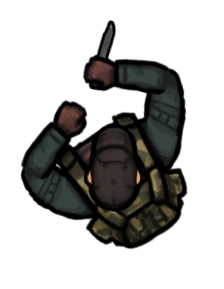
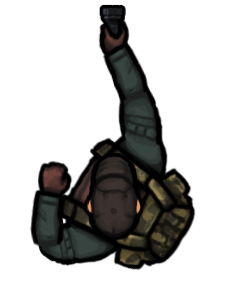
- completed spawning new zombies - completed zombies hurting player
- tweaking font sizes and position

diff --git a/core/src/com/mygdx/game/Enemies.java b/core/src/com/mygdx/game/Enemies.java
@@ -22,30 +22,30 @@ public class Enemies extends Entity {
     private Texture pic;
     // dead image
     private Texture pic2;
-    
+
     private boolean hitPlayer;
-    
+
     public Enemies(int HP, float speed, float x, float y, int width, int height, int damage) {
         super(HP, speed, x, y, width, height);
         this.isDead = false;
         this.damage = damage;
-        this.pic = new Texture("zombie.png");
-        this.pic2 = new Texture("badlogic.jpg");
+        this.pic = new Texture("zombie2.png");
+        this.pic2 = new Texture("blood.png");
         this.hitPlayer = false;
     }
 
     public void setHitPlayer() {
         this.hitPlayer = true;
     }
-    
+
     public void setNotHitPlayer() {
         this.hitPlayer = false;
     }
-    
+
     public boolean getHitPlayer() {
         return this.hitPlayer;
     }
-    
+
     public Rectangle getBounds() {
         return super.getRect();
     }
@@ -57,8 +57,8 @@ public class Enemies extends Entity {
     public boolean collidesWith(Enemies p) {
         return super.getRect().overlaps(p.getBounds());
     }
-    
-    public Boolean collidesWith(Room p){
+
+    public Boolean collidesWith(Room p) {
         return super.getRect().overlaps(p.getBounds());
     }
 
@@ -81,10 +81,10 @@ public class Enemies extends Entity {
             super.setYDown();
         }
     }
-    
+
     public void MoveCoord(int x, int y) {
         // if Enemies is left of player
-        if (super.getX() + (super.getWidth() / 2) < x){
+        if (super.getX() + (super.getWidth() / 2) < x) {
             // move right
             super.setXRight();
         } else if (super.getX() + (super.getWidth() / 2) > x) {
@@ -102,9 +102,8 @@ public class Enemies extends Entity {
         }
     }
 
-
-@Override
-        public void draw(ShapeRenderer shapeBatch) {
+    @Override
+    public void draw(ShapeRenderer shapeBatch) {
         shapeBatch.rect(super.getX(), super.getY(), super.getWidth(), super.getHeight());
     }
 
@@ -120,49 +119,49 @@ public class Enemies extends Entity {
         if (player.getX() + (player.getWidth() / 2) > super.getX() + (super.getWidth() / 2) && player.getY() + (player.getHeight() / 2) > super.getY() + (super.getHeight() / 2)) {
             float angle = (float) Math.atan(((player.getY() + player.getHeight() / 2) - (super.getY() + super.getHeight() / 2)) / ((player.getX() + player.getWidth() / 2) - (super.getX() + super.getWidth() / 2)));
             angle = Math.abs((float) Math.toDegrees(angle));
-            batch.draw(pic, super.getX(), super.getY(), super.getWidth() / 2, super.getHeight() / 2, super.getWidth(), super.getHeight(), 1, 1, (angle) - 90, 0, 0, pic.getWidth(), pic.getHeight(), false, false);
+            batch.draw(pic, super.getX(), super.getY(), super.getWidth() / 2, super.getHeight() / 2, super.getWidth(), super.getHeight(), (float)1.7, (float)1.7, (angle) - 90, 0, 0, pic.getWidth(), pic.getHeight(), false, false);
 
         } else if (player.getX() + (player.getWidth() / 2) < super.getX() + (super.getWidth() / 2) && player.getY() + (player.getHeight() / 2) > super.getY() + (super.getHeight() / 2)) {
             // else if in quadrant 2
             float angle = (float) Math.atan(((player.getY() + player.getHeight() / 2) - (super.getY() + super.getHeight() / 2)) / ((super.getX() + super.getWidth() / 2) - (player.getX() + player.getWidth() / 2)));
             angle = Math.abs((float) Math.toDegrees(angle));
-            batch.draw(pic, super.getX(), super.getY(), super.getWidth() / 2, super.getHeight() / 2, super.getWidth(), super.getHeight(), 1, 1, 90 - (angle), 0, 0, pic.getWidth(), pic.getHeight(), false, false);
+            batch.draw(pic, super.getX(), super.getY(), super.getWidth() / 2, super.getHeight() / 2, super.getWidth(), super.getHeight(), (float)1.7, (float)1.7, 90 - (angle), 0, 0, pic.getWidth(), pic.getHeight(), false, false);
 
         } else if (player.getX() + (player.getWidth() / 2) < super.getX() + (super.getWidth() / 2) && player.getY() + (player.getHeight() / 2) < super.getY() + (super.getHeight() / 2)) {
             // else if in quadrant 3
             float angle = (float) Math.atan(((super.getY() + super.getHeight() / 2) - (player.getY() + player.getHeight() / 2)) / ((super.getX() + super.getWidth() / 2) - (player.getX() + player.getWidth() / 2)));
             angle = Math.abs((float) Math.toDegrees(angle));
-            batch.draw(pic, super.getX(), super.getY(), super.getWidth() / 2, super.getHeight() / 2, super.getWidth(), super.getHeight(), 1, 1, angle + 90, 0, 0, pic.getWidth(), pic.getHeight(), false, false);
+            batch.draw(pic, super.getX(), super.getY(), super.getWidth() / 2, super.getHeight() / 2, super.getWidth(), super.getHeight(), (float)1.7, (float)1.7, angle + 90, 0, 0, pic.getWidth(), pic.getHeight(), false, false);
 
         } else if (player.getX() + (player.getWidth() / 2) > super.getX() + (super.getWidth() / 2) && player.getY() + (player.getHeight() / 2) < super.getY() + (super.getHeight() / 2)) {
             // else if in quadrant 4
             float angle = (float) Math.atan(((super.getY() + super.getHeight() / 2) - (player.getY() + player.getHeight() / 2)) / ((player.getX() + player.getWidth() / 2) - (super.getX() + super.getWidth() / 2)));
             angle = Math.abs((float) Math.toDegrees(angle));
-            batch.draw(pic, super.getX(), super.getY(), super.getWidth() / 2, super.getHeight() / 2, super.getWidth(), super.getHeight(), 1, 1, 270 - angle, 0, 0, pic.getWidth(), pic.getHeight(), false, false);
+            batch.draw(pic, super.getX(), super.getY(), super.getWidth() / 2, super.getHeight() / 2, super.getWidth(), super.getHeight(), (float)1.7, (float)1.7, 270 - angle, 0, 0, pic.getWidth(), pic.getHeight(), false, false);
 
         } else if (player.getX() + (player.getWidth() / 2) == super.getX() + (super.getWidth() / 2) && player.getY() + (player.getHeight() / 2) > super.getY() + (super.getHeight() / 2)) {
             // else if directly above
-            batch.draw(pic, super.getX(), super.getY(), super.getWidth() / 2, super.getHeight() / 2, super.getWidth(), super.getHeight(), 1, 1, 0, 0, 0, pic.getWidth(), pic.getHeight(), false, false);
+            batch.draw(pic, super.getX(), super.getY(), super.getWidth() / 2, super.getHeight() / 2, super.getWidth(), super.getHeight(), (float)1.7, (float)1.7, 0, 0, 0, pic.getWidth(), pic.getHeight(), false, false);
 
         } else if (player.getX() + (player.getWidth() / 2) == super.getX() + (super.getWidth() / 2) && player.getY() + (player.getHeight() / 2) < super.getY() + (super.getHeight() / 2)) {
             // else if directly below
-            batch.draw(pic, super.getX(), super.getY(), super.getWidth() / 2, super.getHeight() / 2, super.getWidth(), super.getHeight(), 1, 1, 180, 0, 0, pic.getWidth(), pic.getHeight(), false, false);
+            batch.draw(pic, super.getX(), super.getY(), super.getWidth() / 2, super.getHeight() / 2, super.getWidth(), super.getHeight(), (float)1.7, (float)1.7, 180, 0, 0, pic.getWidth(), pic.getHeight(), false, false);
 
         } else if (player.getX() + (player.getWidth() / 2) > super.getX() + (super.getWidth() / 2) && player.getY() + (player.getHeight() / 2) == super.getY() + (super.getHeight() / 2)) {
             // else if directly right
-            batch.draw(pic, super.getX(), super.getY(), super.getWidth() / 2, super.getHeight() / 2, super.getWidth(), super.getHeight(), 1, 1, -90, 0, 0, pic.getWidth(), pic.getHeight(), false, false);
+            batch.draw(pic, super.getX(), super.getY(), super.getWidth() / 2, super.getHeight() / 2, super.getWidth(), super.getHeight(), (float)1.7, (float)1.7, -90, 0, 0, pic.getWidth(), pic.getHeight(), false, false);
 
         } else if (player.getX() + (player.getWidth() / 2) < super.getX() + (super.getWidth() / 2) && player.getY() + (player.getHeight() / 2) == super.getY() + (super.getHeight() / 2)) {
             // else if directly left
-            batch.draw(pic, super.getX(), super.getY(), super.getWidth() / 2, super.getHeight() / 2, super.getWidth(), super.getHeight(), 1, 1, 90, 0, 0, pic.getWidth(), pic.getHeight(), false, false);
+            batch.draw(pic, super.getX(), super.getY(), super.getWidth() / 2, super.getHeight() / 2, super.getWidth(), super.getHeight(), (float)1.7, (float)1.7, 90, 0, 0, pic.getWidth(), pic.getHeight(), false, false);
         } else if (player.getX() + (player.getWidth() / 2) == super.getX() + (super.getWidth() / 2) && player.getY() + (player.getHeight() / 2) == super.getY() + (super.getHeight() / 2)) {
             // else if directly on centre of Player
-            batch.draw(pic, super.getX(), super.getY(), super.getWidth() / 2, super.getHeight() / 2, super.getWidth(), super.getHeight(), 1, 1, 180, 0, 0, pic.getWidth(), pic.getHeight(), false, false);
+            batch.draw(pic, super.getX(), super.getY(), super.getWidth() / 2, super.getHeight() / 2, super.getWidth(), super.getHeight(), (float)1.7, (float)1.7, 180, 0, 0, pic.getWidth(), pic.getHeight(), false, false);
         }
     }
 
     /**
-     * 
+     *
      * @param batch the SpriteBatch being used to draw
      */
     public void deadDraw(SpriteBatch batch) {
@@ -178,8 +177,7 @@ public class Enemies extends Entity {
         this.damage = 0;
         this.isDead = true;
     }
-    
-    
+
     /**
      *
      * @return
@@ -191,5 +189,5 @@ public class Enemies extends Entity {
     public int getDamage() {
         return this.damage;
     }
-    
+
 }

diff --git a/core/src/com/mygdx/game/Player.java b/core/src/com/mygdx/game/Player.java
@@ -110,34 +110,34 @@ public class Player extends Entity {
         if (cursorX > super.getX() + (super.getWidth() / 2) && cursorY > super.getY() + (super.getHeight() / 2)) {
             float angle = (float) Math.atan((cursorY - (super.getY() + (super.getHeight() / 2))) / (cursorX - (super.getX() + (super.getWidth() / 2))));
             this.angle = (Math.abs((float) Math.toDegrees(angle))) - 90;
-            batch.draw(pic, super.getX(), super.getY(), super.getWidth() / 2, super.getHeight() / 2, super.getWidth(), super.getHeight(), 1, 1, this.angle, 0, 0, pic.getWidth(), pic.getHeight(), false, false);
+            batch.draw(pic, super.getX(), super.getY(), super.getWidth() / 2, super.getHeight() / 2, super.getWidth(), super.getHeight(), (float)1.5, (float)1.5, this.angle +3, 0, 0, pic.getWidth(), pic.getHeight(), false, false);
         } else if (cursorX < super.getX() + (super.getWidth() / 2) && cursorY > super.getY() + (super.getHeight() / 2)) {
             // else if in quadrant 2
             float angle = (float) Math.atan((cursorY - (super.getY() + (super.getHeight() / 2))) / ((super.getX() + (super.getWidth() / 2)) - cursorX));
             this.angle = 90 -  (Math.abs((float) Math.toDegrees(angle)));
-            batch.draw(pic, super.getX(), super.getY(), super.getWidth() / 2, super.getHeight() / 2, super.getWidth(), super.getHeight(), 1, 1, this.angle, 0, 0, pic.getWidth(), pic.getHeight(), false, false);
+            batch.draw(pic, super.getX(), super.getY(), super.getWidth() / 2, super.getHeight() / 2, super.getWidth(), super.getHeight(), (float)1.5, (float)1.5, this.angle +3, 0, 0, pic.getWidth(), pic.getHeight(), false, false);
         } else if (cursorX < super.getX() + (super.getWidth() / 2) && cursorY < super.getY() + (super.getHeight() / 2)) {
             // else if in quadrant 3
             float angle = (float) Math.atan(((super.getY() + (super.getHeight() / 2)) - cursorY) / ((super.getX() + (super.getWidth() / 2)) - cursorX));
             this.angle = (Math.abs((float) Math.toDegrees(angle))) + 90;
-            batch.draw(pic, super.getX(), super.getY(), super.getWidth() / 2, super.getHeight() / 2, super.getWidth(), super.getHeight(), 1, 1, this.angle, 0, 0, pic.getWidth(), pic.getHeight(), false, false);
+            batch.draw(pic, super.getX(), super.getY(), super.getWidth() / 2, super.getHeight() / 2, super.getWidth(), super.getHeight(), (float)1.5, (float)1.5, this.angle +3, 0, 0, pic.getWidth(), pic.getHeight(), false, false);
         } else if (cursorX > super.getX() + (super.getWidth() / 2) && cursorY < super.getY() + (super.getHeight() / 2)) {
             // else if in quadrant 4
             float angle = (float) Math.atan(((super.getY() + (super.getHeight() / 2)) - cursorY) / (cursorX - (super.getX() + (super.getWidth() / 2))));
             this.angle = 270 - (Math.abs((float) Math.toDegrees(angle)));
-            batch.draw(pic, super.getX(), super.getY(), super.getWidth() / 2, super.getHeight() / 2, super.getWidth(), super.getHeight(), 1, 1, this.angle, 0, 0, pic.getWidth(), pic.getHeight(), false, false);
+            batch.draw(pic, super.getX(), super.getY(), super.getWidth() / 2, super.getHeight() / 2, super.getWidth(), super.getHeight(), (float)1.5, (float)1.5, this.angle +3, 0, 0, pic.getWidth(), pic.getHeight(), false, false);
         } else if (cursorX == super.getX() + (super.getWidth() / 2) && cursorY > super.getY() + (super.getHeight() / 2)) {
             // else if directly above
-            batch.draw(pic, super.getX(), super.getY(), super.getWidth() / 2, super.getHeight() / 2, super.getWidth(), super.getHeight(), 1, 1, 0, 0, 0, pic.getWidth(), pic.getHeight(), false, false);
+            batch.draw(pic, super.getX(), super.getY(), super.getWidth() / 2, super.getHeight() / 2, super.getWidth(), super.getHeight(), (float)1.5, (float)1.5, 0 +3, 0, 0, pic.getWidth(), pic.getHeight(), false, false);
         } else if (cursorX == super.getX() + (super.getWidth() / 2) && cursorY < super.getY() + (super.getHeight() / 2)) {
             // else if directly below
-            batch.draw(pic, super.getX(), super.getY(), super.getWidth() / 2, super.getHeight() / 2, super.getWidth(), super.getHeight(), 1, 1, 180, 0, 0, pic.getWidth(), pic.getHeight(), false, false);
+            batch.draw(pic, super.getX(), super.getY(), super.getWidth() / 2, super.getHeight() / 2, super.getWidth(), super.getHeight(), (float)1.5, (float)1.5, 180 +3, 0, 0, pic.getWidth(), pic.getHeight(), false, false);
         } else if (cursorX > super.getX() + (super.getWidth() / 2) && cursorY == super.getY() + (super.getHeight() / 2)) {
             // else if directly right
-            batch.draw(pic, super.getX(), super.getY(), super.getWidth() / 2, super.getHeight() / 2, super.getWidth(), super.getHeight(), 1, 1, -90, 0, 0, pic.getWidth(), pic.getHeight(), false, false);
+            batch.draw(pic, super.getX(), super.getY(), super.getWidth() / 2, super.getHeight() / 2, super.getWidth(), super.getHeight(), (float)1.5, (float)1.5, -90 +3, 0, 0, pic.getWidth(), pic.getHeight(), false, false);
         } else if (cursorX < super.getX() + (super.getWidth() / 2) && cursorY == super.getY() + (super.getHeight() / 2)) {
             // else if directly left
-            batch.draw(pic, super.getX(), super.getY(), super.getWidth() / 2, super.getHeight() / 2, super.getWidth(), super.getHeight(), 1, 1, 90, 0, 0, pic.getWidth(), pic.getHeight(), false, false);
+            batch.draw(pic, super.getX(), super.getY(), super.getWidth() / 2, super.getHeight() / 2, super.getWidth(), super.getHeight(), (float)1.5, (float)1.5, 90 +3, 0, 0, pic.getWidth(), pic.getHeight(), false, false);
         }
         
     }

diff --git a/core/src/com/mygdx/game/MyGdxGame.java b/core/src/com/mygdx/game/MyGdxGame.java
@@ -75,7 +75,7 @@ public class MyGdxGame extends ApplicationAdapter {
     public void create() {
         this.multiplier = 1;
 
-        player = new Player(100, (float) 4.5, 600, 500, 200, 200, 0, 1);
+        player = new Player(100, (float) 4.5, 600, 500, 150, 150, 0, 1);
         leftMain = new Room(100, 20, 1850, 1500);
         rightMain = new Room(1950, 20, 1880, 1500 + 60);
         topMain = new Room(750, 1500, 2460, 700);
@@ -86,11 +86,11 @@ public class MyGdxGame extends ApplicationAdapter {
         this.healths = new ArrayList<HealthUp>();
 
         enemies = new ArrayList<Enemies>();
-        enemies.add(new Enemies(100, (float) 2, (float) 300, (float) 200, 120, 120, 5));
-        enemies.add(new Enemies(100, (float) 2, (float) 500, (float) 450, 120, 120, 5));
-        enemies.add(new Enemies(100, (float) 2, (float) 500, (float) 450, 120, 120, 5));
-        enemies.add(new Enemies(100, (float) 2, (float) 500, (float) 450, 120, 120, 5));
-        enemies.add(new Enemies(100, (float) 2, (float) 300, (float) 200, 120, 120, 5));
+        enemies.add(new Enemies(100, (float) 2, (float) 300, (float) 200, 100, 100, 1));
+        enemies.add(new Enemies(100, (float) 2, (float) 500, (float) 450, 100, 100, 1));
+        enemies.add(new Enemies(100, (float) 2, (float) 500, (float) 450, 100, 100, 1));
+        enemies.add(new Enemies(100, (float) 2, (float) 500, (float) 450, 100, 100, 1));
+        enemies.add(new Enemies(100, (float) 2, (float) 300, (float) 200, 100, 100, 1));
 
         // centre gun on player
         pistol = new M1911(1, player.getX() + (25), player.getY() + (37), 50, 75, 12, (float) 0.15, 48);
@@ -458,15 +458,15 @@ public class MyGdxGame extends ApplicationAdapter {
             // spawn new zombies (tankier, faster, stronger)
             // leftMain
             if (this.spawn == 1) {
-                enemies.add(new Enemies(100 + (this.multiplier * 5), (float) (this.tempSpeed + 0.75), (float) 975, (float) 760, this.tempWidth, this.tempHeight, 5 + (this.multiplier * 2)));
+                enemies.add(new Enemies(100 + (this.multiplier * 2), (float) (this.tempSpeed + 0.25), (float) 975, (float) 760, this.tempWidth, this.tempHeight, 1 + this.multiplier));
                 System.out.println("left");
             } else if (this.spawn == 2) {
                 // rightMain
-                enemies.add(new Enemies(100 + (this.multiplier * 5), (float) (this.tempSpeed + 0.75), (float) 2515, (float) 790, this.tempWidth, this.tempHeight, 5 + (this.multiplier * 2)));
+                enemies.add(new Enemies(100 + (this.multiplier * 2), (float) (this.tempSpeed + 0.25), (float) 2515, (float) 790, this.tempWidth, this.tempHeight, 1 + this.multiplier));
                 System.out.println("right");
             } else if (this.spawn == 3) {
                 // topMain
-                enemies.add(new Enemies(100 + (this.multiplier * 5), (float) (this.tempSpeed + 0.75), (float) 1605, (float) 2000, this.tempWidth, this.tempHeight, 5 + (this.multiplier * 2)));
+                enemies.add(new Enemies(100 + (this.multiplier * 2), (float) (this.tempSpeed + 0.25), (float) 1605, (float) 2000, this.tempWidth, this.tempHeight, 1 + this.multiplier));
                 System.out.println("top");
             }
             // reset variable to prevent unneccessary spawns
@@ -506,6 +506,13 @@ public class MyGdxGame extends ApplicationAdapter {
             // GAME OVER
         }
         
+//        shapeBatch.setColor(Color.RED);
+//        for(Enemies enemy: enemies) {
+//            enemy.draw(shapeBatch);
+//        }
+//        shapeBatch.setColor(Color.BLUE);
+//        player.draw(shapeBatch);
+        
         shapeBatch.end();
 
         // sprite drawings
@@ -527,7 +534,7 @@ public class MyGdxGame extends ApplicationAdapter {
         player.drawHP(batch);
 
         // gun drawing
-        pistol.draw(batch, player, cursorPosition.x, cursorPosition.y);
+        // pistol.draw(batch, player, cursorPosition.x, cursorPosition.y);
 
         pistol.drawAmmo(batch, player);
 

diff --git a/core/src/com/mygdx/game/Entity.java b/core/src/com/mygdx/game/Entity.java
@@ -59,8 +59,8 @@ public abstract class Entity {
     
     public void increaseHP(HealthUp item) {
         this.HP = this.HP + (int)item.getValue();
-        if(this.HP > 200) {
-            this.HP = 200;
+        if(this.HP > 500) {
+            this.HP = 500;
         }
     }
     
